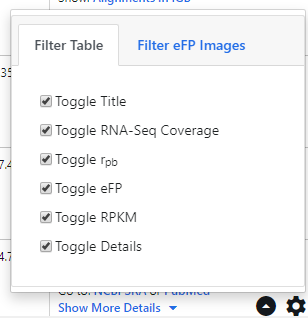
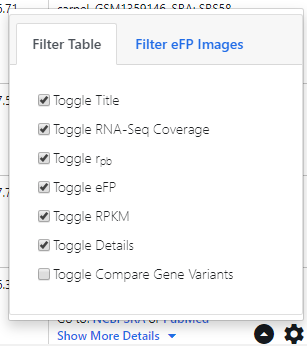
Updated help section
Bug fix:
• Updated help section with new features and updated old images with new UI elements
• Added tooltips to rpb and PRKM to give more details of how to read that information
• Corrected help section where it still says PCC instead of rpb

In progress:
• MEDIAN control data

TODO:
• Make eFP Overview more responsive to the screen's resolution
• TMM or TPM and median for additional normalization methods
• Expand the creation of the private database to include adding from public and private database to your creation

Known bugs:
• Does not work on IE
• Google Drive repos do not work for IGB links
• Download page as an image does not render SVGs on Microsoft Edge
• Some sorting arrows may not display in Microsoft Edge

Changed region(s): [[0.0, 0.0, 1.0, 1.0], [0.1173, 0.2547, 0.7622, 0.8208], [0.4397, 0.1132, 0.7915, 0.1698]]

diff --git a/cgi-bin/core/custom.js b/cgi-bin/core/custom.js
@@ -1071,9 +1071,9 @@ function populate_table(status) {
   '<th class="colRNA" id="colRNA" style="border: 1px solid #D3D3D3; background-color: #F0F0F0; max-width: 576px;">RNA-Seq Coverage' +
   img_created +
   '</th>' +
-  '<th class="sortable colrpb" id="colrpb" onclick="ChangeColArrow(this.id)" style="border: 1px solid #D3D3D3; background-color: #F0F0F0; width: 75px;"><div class="row" id="colrpbRow"><div class="col-xs-6">r<sub>pb</sub></div><div class="col-xs-1"><img class="sortingArrow" id="colrpbArrow" src="./cgi-bin/SVGs/arrowDefault.min.svg"></div></div></th>' +
+  '<th class="sortable colrpb" id="colrpb" onclick="ChangeColArrow(this.id)" title="Point biserial correlation coefficient. Closer to 1 suggests a \'best\' match" style="border: 1px solid #D3D3D3; background-color: #F0F0F0; width: 75px;"><div class="row" id="colrpbRow"><div class="col-xs-6" >r<sub>pb</sub></div><div class="col-xs-1"><img class="sortingArrow" id="colrpbArrow" src="./cgi-bin/SVGs/arrowDefault.min.svg"></div></div></th>' +
   '<th class="coleFP" id="eFP_th" class="sortable" style="border: 1px solid #D3D3D3; background-color: #F0F0F0; width: 100px;">eFP (RPKM)</th>' +
-  '<th class="sortable colRPKM" id="colRPKM" onclick="ChangeColArrow(this.id)" style="border: 1px solid #D3D3D3; background-color: #F0F0F0; width: 75px;"><div class="row" id="colRPKMRow"><div class="col-xs-7">RPKM</div><div class="col-xs-1"><img class="sortingArrow" id="colRPKMArrow" src="./cgi-bin/SVGs/arrowDefault.min.svg"></div></div></th>' +
+  '<th class="sortable colRPKM" id="colRPKM" onclick="ChangeColArrow(this.id)" title="Reads Per Kilobase of transcript per Million mapped reads. Higher number suggest more mapped reads/expression" style="border: 1px solid #D3D3D3; background-color: #F0F0F0; width: 75px;"><div class="row" id="colRPKMRow"><div class="col-xs-7">RPKM</div><div class="col-xs-1"><img class="sortingArrow" id="colRPKMArrow" src="./cgi-bin/SVGs/arrowDefault.min.svg"></div></div></th>' +
   '<th class="sortable colDetails" id="colDetails" onclick="ChangeColArrow(this.id)" style="border: 1px solid #D3D3D3; background-color: #F0F0F0; width: 275px;"><div class="row" id="colDetailsRow"><div class="col-xs-10">Details</div><div class="col-xs-0.5"><img class="sortingArrow" id="colDetailsArrow" src="./cgi-bin/SVGs/arrowDefault.min.svg"></div></div></th>' +
   '<th class="sortable colCompare" id="colCompare" style="border: 1px solid #D3D3D3; background-color: #F0F0F0; max-width: 30px;"><div class="row" id="colCompareRow"></div></th>' +
   '</tr></thead>' +
@@ -1085,9 +1085,9 @@ function populate_table(status) {
   '<th id="compare_colRNA" style="border: 1px solid #D3D3D3; background-color: #F0F0F0; max-width: 576px;">RNA-Seq Coverage' +
   img_created +
   '</th>' +
-  '<th id="compare_colrpb" style="border: 1px solid #D3D3D3; background-color: #F0F0F0; width: 75px;"><div class="row" id="compare_colrpbRow"><div class="col-xs-6">r<sub>pb</sub></div></div></th>' +
+  '<th id="compare_colrpb" title="Point biserial correlation coefficient. Closer to 1 suggests a \'best\' match" style="border: 1px solid #D3D3D3; background-color: #F0F0F0; width: 75px;"><div class="row" id="compare_colrpbRow"><div class="col-xs-6">r<sub>pb</sub></div></div></th>' +
   '<th id="compare_eFP_th" style="border: 1px solid #D3D3D3; background-color: #F0F0F0; width: 100px;">eFP (RPKM)</th>' +
-  '<th id="compare_colRPKM" style="border: 1px solid #D3D3D3; background-color: #F0F0F0; width: 75px;"><div class="row" id="compare_colRPKMRow"><div class="col-xs-7">RPKM</div></div></th>' +
+  '<th id="compare_colRPKM" title="Reads Per Kilobase of transcript per Million mapped reads. Higher number suggest more mapped reads/expression" style="border: 1px solid #D3D3D3; background-color: #F0F0F0; width: 75px;"><div class="row" id="compare_colRPKMRow"><div class="col-xs-7">RPKM</div></div></th>' +
   '<th id="compare_colDetails" style="border: 1px solid #D3D3D3; background-color: #F0F0F0; width: 275px;"><div class="row" id="compare_colDetailsRow"><div class="col-xs-10">Details</div></div></th>' +
   '</tr></thead>' +
   '<tbody id="compare_table_body"></tbody>';

diff --git a/index.html b/index.html
@@ -592,7 +592,7 @@
                     </tr>
                     <tr>
                       <td> r<sub>pb</sub> </td>
-                      <td> The Pearson Correlation Coefficient value. This value is used to determine the similarity of the splice variant selected where the closer the value is to 1 shows similarity and 0 shows no similarity </td>
+                      <td> The point biserial correlation coefficient (r<sub>pb</sub>) value. This value is used to determine the similarity of the splice variant selected where the closer the value is to 1 shows similarity and 0 shows no similarity </td>
                     </tr>
                     <tr>
                       <td> RPKM </td>
@@ -628,6 +628,29 @@
                   You can also toggle and filter which eFP images you would like to see in RNA table by clicking on the "gears"/settings icon on the bottom right of the screen once a dataset has been loaded and then clicking on the "Filter eFP Images" tab. Just check any box off that you would not like to see and that image will be toggled off (or check a box that you do want to keep displayed and it will show).
                   <br><br>
                   <img class="helpCardImages lazyload" data-src="cgi-bin\img\helpModal\0019_eFPImagesFilter.png" alt="Help image for toggling and filtering eFP images from the RNA-table"style="max-width: 100%;">
+                  <br><br>
+                  <span style="font-weight: bold; font-size: 1.2em;">Compare gene variants</span>
+                  <br><br> 
+                  You are also able to compare gene variants of a selected sample within your dataset. By default, the option for this feature is hidden and disabled. To enable this feature, toggle 'Compare Gene Variants' in the 'Filter Table' option in the bottom right of the page (from the settings gear icon, see 'Toggle the RNA table above').
+
+                  From here, you will see a new column being displayed including a checkbox per row. When selected, the 'Compare gene variants' button will enable and when clicked, all checked samples/rows will be displayed here to compare how the sample changed between gene variants. 
+
+                  To disable or remove a comparison, either uncheck the individual sample/row or uncheck the box in the top row to deselect all. 
+                  <br><br>
+                  <img class="helpCardImages lazyload" data-src="cgi-bin\img\helpModal\0020_compareGeneVariants.png" alt="Help image for comparing gene variants"style="max-width: 100%;">
+                  <br><br>
+                  <span style="font-weight: bold; font-size: 1.2em;">Sharing your session</span>
+                  <br><br> 
+                  You may also share or save your current session by using the 'Generate Share Link' option in the navigation menu. When this module is opened, you will see a URL which you can open and will load your currently displayed session. An example would be <a href='https://bar.utoronto.ca/eFP-Seq_Browser/?locus=AT2G24270&dataset=cgi-bin/data/bamdata_araport11.xml' target='_blank' rel='noopener'>https://bar.utoronto.ca/eFP-Seq_Browser/?locus=AT2G24270&dataset=cgi-bin/data/bamdata_araport11.xml</a>
+                  <br><br>
+                  <div id="loadDataTip_downloadTable" class="HelpNoteDiv">
+                    <p class="HelpNoteTop">
+                      <i class="material-icons" style="font-size: 1.2em; position: relative; top: 3px;">&#xE000;</i> NOTE:
+                      <p class="HelpNoteBottom"> For custom uploaded datasets, the URL will be long which is why we recommend you to use a link shortener. Some options can be found <a href='https://www.google.com/search?q=link+shortener' target='_blank' rel='noopener'>here</a> </p>
+                    </p>
+                  </div>
+                  <img class="helpCardImages lazyload" data-src="cgi-bin\img\helpModal\0020_sharingSession.png" alt="Help image for toggling and filtering eFP images from the RNA-table"style="max-width: 100%;">
+                  <br><br>
                   <br>
                 </div>
               </div>
